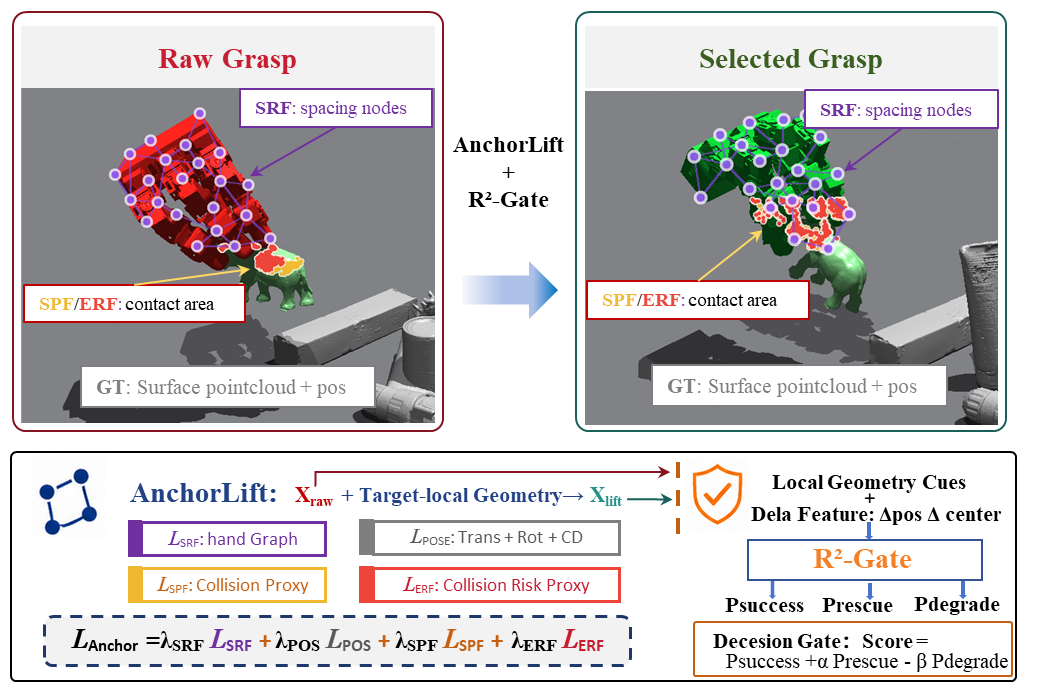
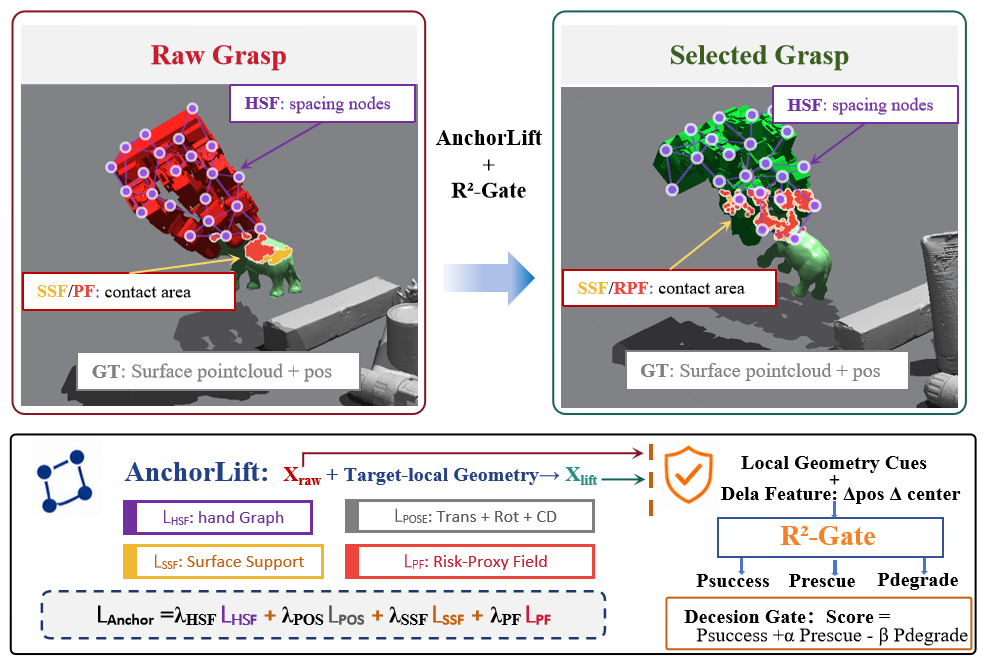
Update pipeline and diagnostic figures from manuscript assets

diff --git a/index.html b/index.html
@@ -88,7 +88,7 @@
           </div>
 
           <figure class="wide-figure">
-            <img src="assets/images/figure3.png" alt="Complete SafeAnchor-Grasp pipeline">
+            <img src="assets/images/figure3.png?v=394d8f73852b" alt="Complete SafeAnchor-Grasp pipeline">
             <figcaption>Complete pipeline. Raw Grasp is matched to the original target object, AnchorLift generates a same-object candidate, and R<sup>2</sup>-Gate makes the final keep-or-replace decision.</figcaption>
           </figure>
 
@@ -100,7 +100,7 @@
               </p>
             </div>
             <figure>
-              <img src="assets/images/figure2.png" alt="AnchorLift and R2-Gate diagnostic fields">
+              <img src="assets/images/figure2.png?v=6cda3e4b9ab7" alt="AnchorLift and R2-Gate diagnostic fields">
               <figcaption>Core intermediate states. HSF, SSF, and PF provide hand-structure, target-surface proximity, and penetration diagnostics.</figcaption>
             </figure>
           </div>
